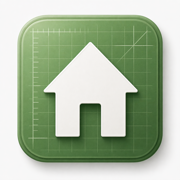
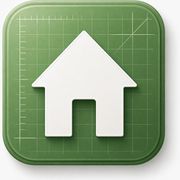
fix(pwa): アイコンの白い余白を自動検出してトリミング
- 元画像 1254x1254 から緑タイル領域 (116,100)-(1218,1226) を検出
- 中央寄せで正方形クロップして全サイズを再生成
- ホーム画面でタイル全体が映えるように

diff --git a/sw.js b/sw.js
@@ -19,7 +19,7 @@
    - コードを大きく変えたらここのバージョンを上げること
 ================================================================ */
 
-const CACHE_VERSION = 'v2-2026-04-22c';
+const CACHE_VERSION = 'v2-2026-04-22d';
 const CACHE_NAME    = `portal-${CACHE_VERSION}`;
 
 // 初回インストール時にプリキャッシュする最小セット
